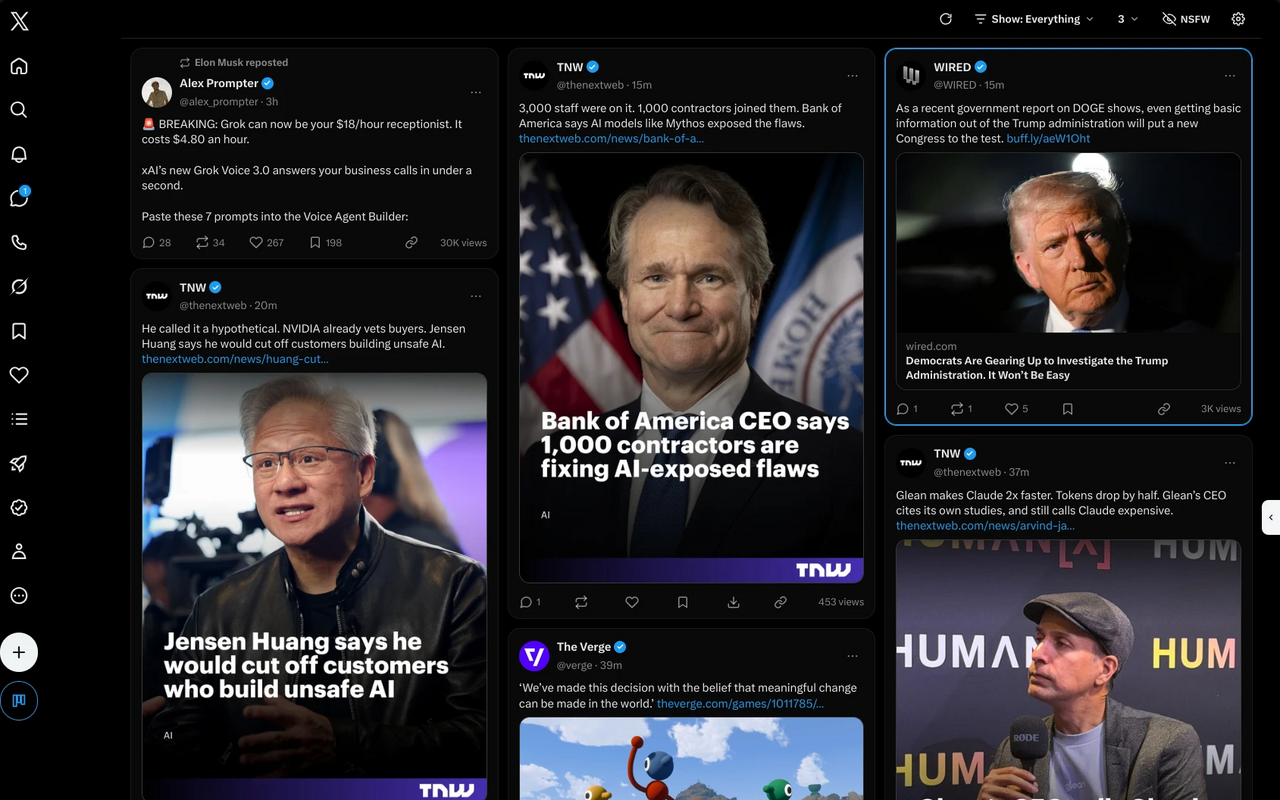
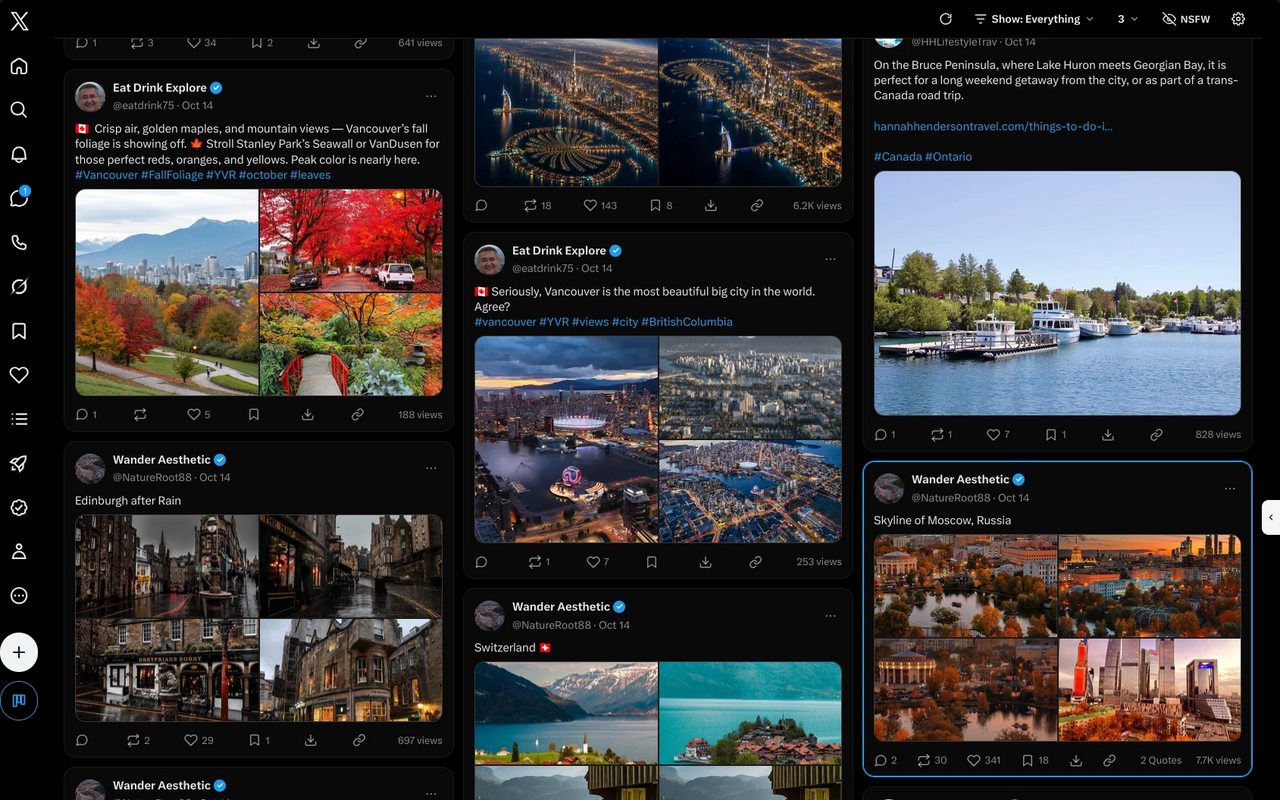
Store: all eight slides are real shots; the columns slide is now a travel feed, and keys and themes have their own shots
Claude-Session: https://claude.ai/code/session_018kEDBPkK9jgvVfS9DEM5ks

diff --git a/store/listing.md b/store/listing.md
@@ -64,14 +64,14 @@ X and Twitter are trademarks of X Corp. This add-on is not affiliated with, endo
 **Release notes (current version):**
 Columns on Home, Search, Lists, Bookmarks and profiles; a post panel with its picture, comments (loading as you scroll), like, bookmark, reply (with pictures, a GIF or emoji) and translate; video in the post; a Reels view; Vim and simple keys; one-click media downloads; filters, including an optional NSFW only view; fourteen colour themes; a welcome page for the first run; followers as a grid; a gallery for Media tabs; Bookmarks, Likes and Lists in the left menu; a menu for narrow windows; a settings page.
 
-**Screenshots** (upload the headline slides in `store/screenshots/slides/`, in this order; `node store/make-screenshots.js` then `node store/make-slides.js` makes them: 1280x800. Slides 1 to 5 and 8 are real shots of X (public posts; the owner's own profile at the foot of X's menu is blurred out: `store/own-shots.json` names the sources, the blurred places and the cut, `node store/prepare-own.js <folder>` makes `store/screenshots/own/*.png`, and `make-slides.js` uses those in place of the generated shot of the same name); slides 6 and 7 are generated, with invented accounts and posts. The plain shots are in `store/screenshots/` if you want any without a headline; the wording is in `SLIDES` in `store/make-slides.js`):
+**Screenshots** (upload the headline slides in `store/screenshots/slides/`, in this order; `node store/make-screenshots.js` then `node store/make-slides.js` makes them: 1280x800. All eight are real shots of X (public posts; the owner's own profile at the foot of X's menu is blurred out: `store/own-shots.json` names the sources, the blurred places and the cut, `node store/prepare-own.js <folder>` makes `store/screenshots/own/*.png`, and `make-slides.js` uses those in place of the generated shot of the same name; a slide with no entry there falls back to a generated shot with invented accounts and posts). The plain shots are in `store/screenshots/` if you want any without a headline; the wording is in `SLIDES` in `store/make-slides.js`):
 1. `01-columns.png` Your feed in columns.
 2. `02-reels.png` Doomscroll with style: one post at a time, with the rail of buttons on the picture.
 3. `03-post-panel.png` Open a post without losing your place.
 4. `04-reply-tools.png` Reply with pictures and emoji, from the comment box in the panel.
 5. `05-media-wall.png` Media tabs as a gallery.
-6. `06-keys.png` Browse with your keyboard: the card of keys.
-7. `07-themes.png` Fourteen colour themes (the feed in Catppuccin Mocha).
+6. `06-keys.png` Browse with your keyboard.
+7. `07-themes.png` Fourteen colour themes (a feed of cats in a dark theme).
 8. `08-photo-viewer.png` Photos and video, done properly: the viewer with Download and Copy link.
 (Not in the slides, still in `store/screenshots/`: the filters, the room, the starting points (the welcome page), the settings page and the settings in a panel.)
 
